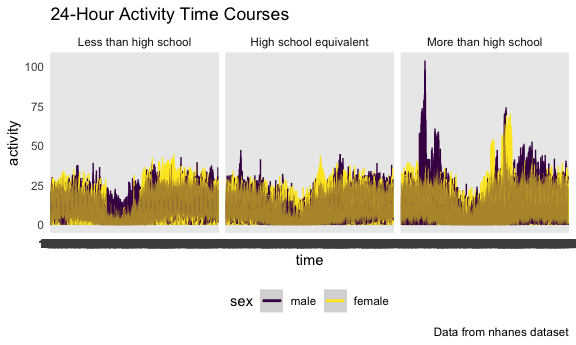
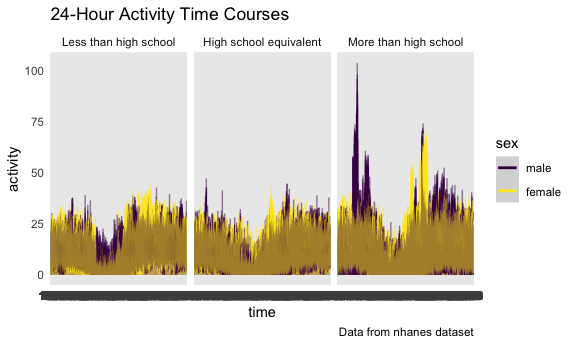
modify to better manifest the plots

diff --git a/p8105_hw3_ml5018.md b/p8105_hw3_ml5018.md
@@ -18,7 +18,7 @@ knitr::opts_chunk$set(
   out.width = "90%"
 )
 
-theme_set(theme_minimal() + theme(legend.position = "bottom"))
+theme_set(theme_minimal() + theme(legend.position = "right"))
 
 options(
   ggplot2.continuous.colour = "viridis",
@@ -699,8 +699,8 @@ nhanes_df |>
   left_join(nhanes_df) |>
   select(sex, age, education, sum) |>
   ggplot(aes(x = age, y = sum, color = sex)) +
-  geom_point() +
-  geom_smooth() +
+  geom_point(alpha = .5) +
+  geom_smooth(alpha = .5) +
   facet_grid(.~education) +
   labs(
     title = "Total Activities against Age for Males and Females",
@@ -729,7 +729,7 @@ including smooth trends may help identify differences.
 ``` r
 nhanes_df |>
   ggplot(aes(x = min, y = value, color = sex)) +
-  geom_line() +
+  geom_line(alpha = .5) +
   geom_smooth() +
   facet_grid(.~education) +
   labs(
@@ -745,7 +745,9 @@ nhanes_df |>
 <img src="p8105_hw3_ml5018_files/figure-gfm/three_panel-1.png" width="90%" />
 
 A line plot is applied to manifest the activity changing pattern
-according to time. It can be seen that while the pattern of male in all
-three education groups look similar, the activity of female in “More
-than high school” group shows siginificant difference compared with the
-other two groups.
+according to time. The alpha value is set because of the overlapping
+between different sex groups in one plot.
+
+It can be seen that while the pattern of male in all three education
+groups look similar, the activity of female in “More than high school”
+group shows siginificant difference compared with the other two groups.
